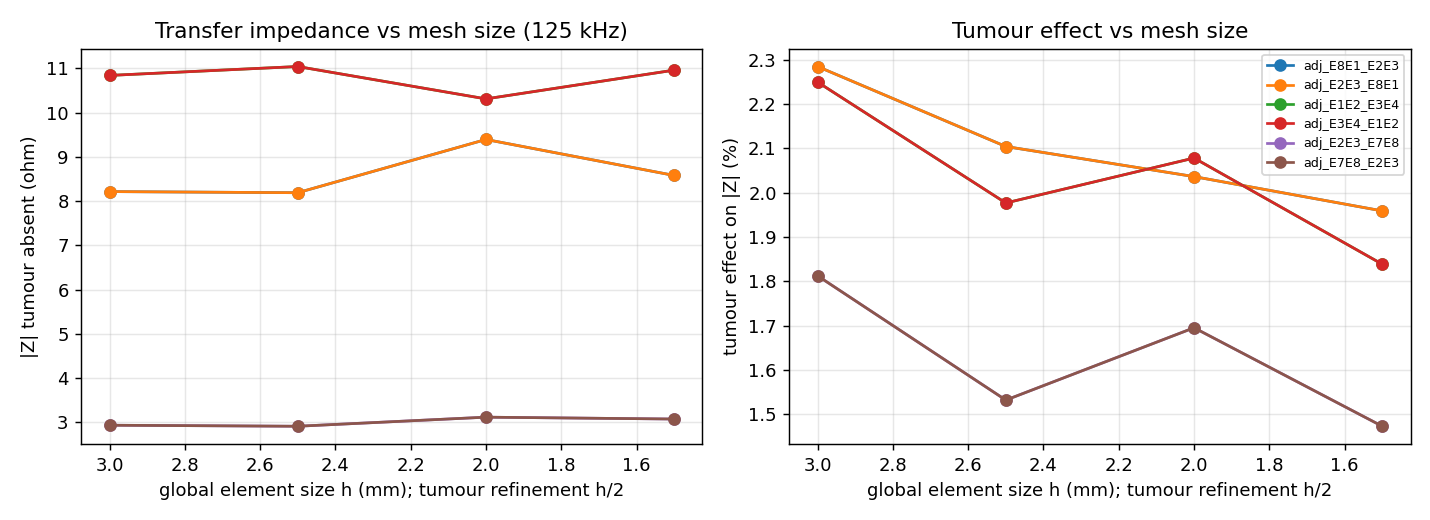
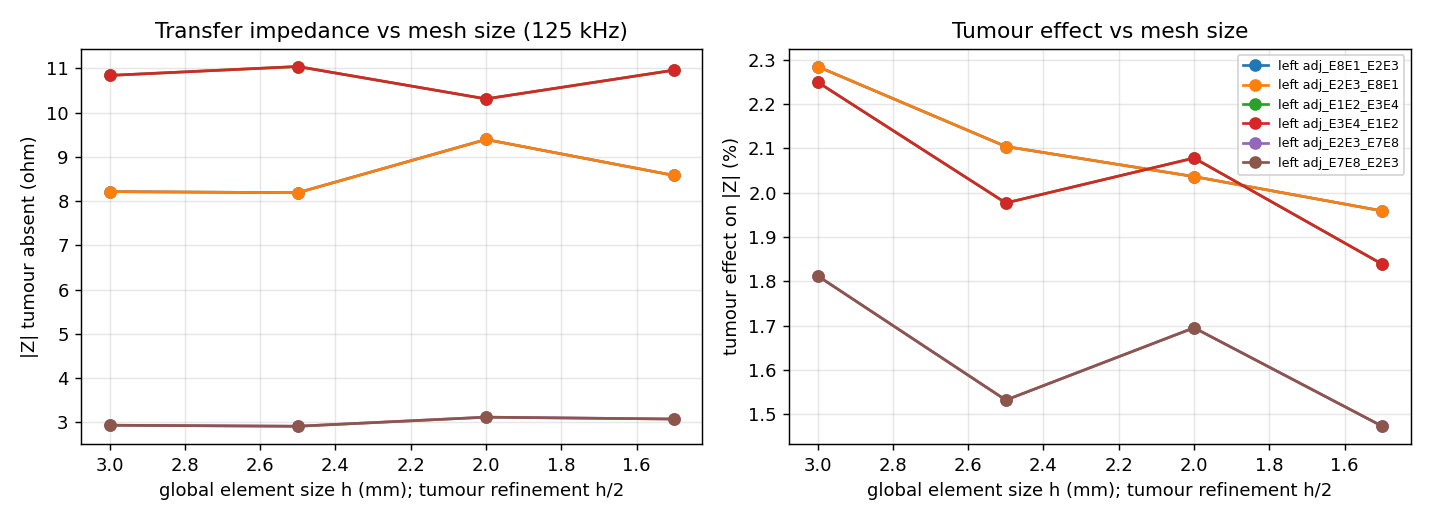
convergence.py: resolve output dir, macOS ru_maxrss units, plot by (side, measurement)

Changed region(s): [[0.8615, 0.0923, 0.9846, 0.3385]]

diff --git a/scripts/convergence.py b/scripts/convergence.py
@@ -30,12 +30,13 @@ res = run(cfg, "{out}", log=lambda *a: None, write_fields=False)
 m = res["metadata"]["sides"]
 print(json.dumps(dict(nodes=sum(s["mesh"]["nodes"] for s in m.values()),
                       tets=sum(s["mesh"]["tets"] for s in m.values()),
-                      peak_rss_mb=resource.getrusage(resource.RUSAGE_SELF).ru_maxrss / 1024)))
+                      peak_rss_mb=resource.getrusage(resource.RUSAGE_SELF).ru_maxrss
+                      / (2 ** 20 if sys.platform == "darwin" else 2 ** 10))))
 """
 
 
 def run_level(config, out, h, th):
-    d = Path(out) / f"h{h:g}_t{th:g}"
+    d = (Path(out) / f"h{h:g}_t{th:g}").resolve()
     t = time.perf_counter()
     r = subprocess.run([sys.executable, "-c", CASE.format(root=ROOT, config=Path(config).resolve(), h=h, th=th,
                                                           out=d)], capture_output=True, text=True, cwd=ROOT)
@@ -115,12 +116,12 @@ def plot(df, main_lv, out):
     g = df[(df.sweep == "global") | df.set_index(["h_mm", "tumour_h_mm"]).index.isin(main_lv)]
     g = g[g.frequency_hz == f0]
     top = (g[g.h_mm == min(main_lv)[0]].assign(a=lambda d: d.rel_d_mag_pct.abs())
-           .sort_values("a", ascending=False).measurement_id.head(6).tolist())
+           .sort_values("a", ascending=False)[["side", "measurement_id"]].head(6).itertuples(index=False))
     fig, ax = plt.subplots(1, 2, figsize=(11, 4))
-    for mid in top:
-        s = g[g.measurement_id == mid].sort_values("h_mm")
-        ax[0].plot(s.h_mm, s.z_absent_mag, "o-", label=mid)
-        ax[1].plot(s.h_mm, s.rel_d_mag_pct, "o-", label=mid)
+    for side, mid in top:
+        s = g[(g.side == side) & (g.measurement_id == mid)].sort_values("h_mm")
+        ax[0].plot(s.h_mm, s.z_absent_mag, "o-", label=f"{side} {mid}")
+        ax[1].plot(s.h_mm, s.rel_d_mag_pct, "o-", label=f"{side} {mid}")
     ax[0].set(xlabel="global element size h (mm); tumour refinement h/2", ylabel="|Z| tumour absent (ohm)",
               title=f"Transfer impedance vs mesh size ({f0 / 1e3:g} kHz)")
     ax[1].set(xlabel="global element size h (mm); tumour refinement h/2", ylabel="tumour effect on |Z| (%)",
